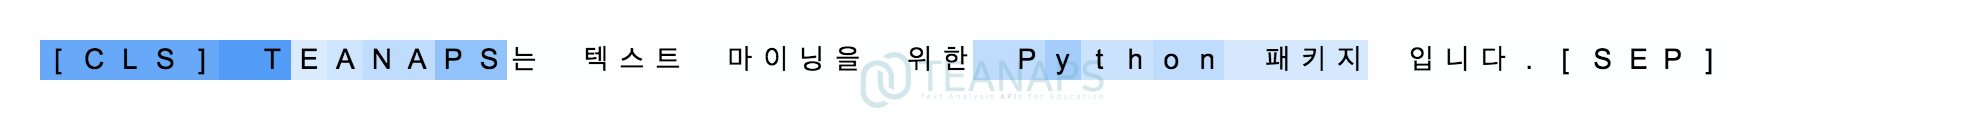
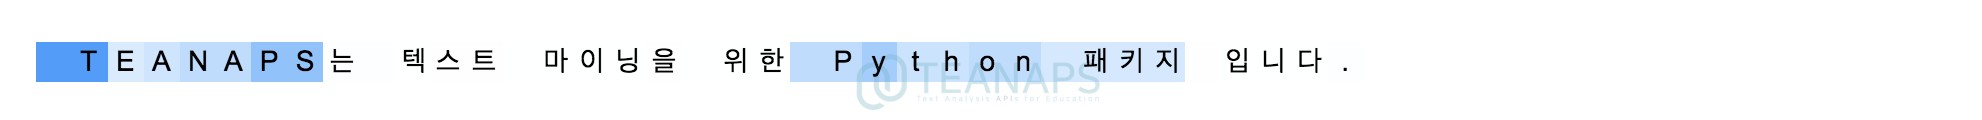
modified:   data/sample_image/sentence_weight.png 	modified:   data/sample_image/sentence_weight_histogram.png 	modified:   document/teanaps_user_guide-api_documentation-handler.md 	modified:   document/teanaps_user_guide-api_documentation-machine-learning.md 	modified:   document/teanaps_user_guide

Changed region(s): [[0.0, 0.325, 0.8618, 0.925]]

diff --git a/nlp/NamedEntityRecognizer.py b/nlp/NamedEntityRecognizer.py
@@ -57,7 +57,7 @@ class NamedEntityRecognizer():
         weight_list = []
         for token_index in range(len(token_list)):
             weight_list.append(attn_data["attn"][11][11][token_index][token_index])
-        return token_list, weight_list
+        return token_list[1:-1], weight_list[1:-1]
     
     def draw_sentence_weight(self, sentence):
         token_list, weight_list = self.get_weight(sentence)
@@ -65,14 +65,10 @@ class NamedEntityRecognizer():
         return tv.draw_sentence_attention(token_list, weight_list)
     
     def draw_weight(self, sentence):
-        attn_data = self.__get_attention(self.model, sentence)
         gv = GraphVisualizer()
-        x = attn_data["text"]
-        x_data = []
-        z_data = []
-        for x_index in range(len(x)):
-            x_data.append("(" + str(x_index) + ")" + x[x_index])
-            z_data.append(attn_data["attn"][11][11][x_index][x_index])
+        token_list, weight_list = self.get_weight(sentence)
+        x_data = ["(" + str(token_index) + ")" + token for token_index, token in enumerate(token_list)]
+        z_data = [weight for weight in weight_list]
         data_meta_list = []
         data_meta = {
             "graph_type": "histogram",

diff --git a/document/teanaps_user_guide-api_documentation-visualization.md b/document/teanaps_user_guide-api_documentation-visualization.md
@@ -7,7 +7,7 @@
   - [Handler](./teanaps_user_guide-api_documentation-handler.md#teanaps-user-guide)
   - [NLP](./teanaps_user_guide-api_documentation-nlp.md#teanaps-user-guide)
   - [Text Analysis](./teanaps_user_guide-api_documentation-text_analysis.md#teanaps-user-guide)
-  - [Visualization](./teanaps_user_guide-api_documentation-visualization.md#teanaps-user-guide)
+  - Visualization
   - [Machine Learning](./teanaps_user_guide-api_documentation-machine-learning.md#teanaps-user-guide)
 - [Tutorial](./teanaps_user_guide-tutorial.md#teanaps-user-guide)
 - [References](./teanaps_user_guide-references_journal_project.md#teanaps-user-guide)
@@ -75,7 +75,7 @@
 > gv = GraphVisualizer()
 > ```
 
-- `teanaps.visualization.GraphVisualizer.draw_histogram(self, data_meta_list, graph_meta)` [[Top]](#teanaps-architecture)
+- `teanaps.visualization.GraphVisualizer.draw_histogram(data_meta_list, graph_meta)` [[Top]](#teanaps-architecture)
   - 입력된 그래프 메타정보를 바탕으로 생성된 히스토그램 그래프를 출력합니다.
   - Parameters
     - *data_meta_list (list) : 그래프에 표현할 데이터 딕셔너리를 포함하는 리스트. Examples 참고.*
@@ -125,7 +125,7 @@
     > Output (in Jupyter Notebook) :
     > ![histogram](../data/sample_image/histogram.png)
 
-- `teanaps.visualization.GraphVisualizer.draw_line_graph(self, data_meta_list, graph_meta)` [[Top]](#teanaps-architecture)
+- `teanaps.visualization.GraphVisualizer.draw_line_graph(data_meta_list, graph_meta)` [[Top]](#teanaps-architecture)
   - 입력된 그래프 메타정보를 바탕으로 생성된 라인 그래프를 출력합니다.
   - Parameters
     - *data_meta_list (list) : 그래프에 표현할 데이터 딕셔너리를 포함하는 리스트. Examples 참고.*
@@ -175,7 +175,7 @@
     > Output (in Jupyter Notebook) :
     > ![line_graph](../data/sample_image/line_graph.png)
 
-- `teanaps.visualization.GraphVisualizer.draw_matrix(self, data_meta_list, graph_meta)` [[Top]](#teanaps-architecture)
+- `teanaps.visualization.GraphVisualizer.draw_matrix(data_meta_list, graph_meta)` [[Top]](#teanaps-architecture)
   - 입력된 그래프 메타정보를 바탕으로 생성된 매트릭스 그래프를 출력합니다.
   - Parameters
     - *data_meta (dict) : 그래프에 표현할 데이터 딕셔너리. Examples 참고.*
@@ -219,7 +219,7 @@
     > Output (in Jupyter Notebook) :
     > ![matrix](../data/sample_image/matrix.png)
 
-- `teanaps.visualization.GraphVisualizer.draw_scatter(self, data_meta_list, graph_meta)` [[Top]](#teanaps-architecture)
+- `teanaps.visualization.GraphVisualizer.draw_scatter(data_meta_list, graph_meta)` [[Top]](#teanaps-architecture)
   - 입력된 그래프 메타정보를 바탕으로 생성된 산점도 그래프를 출력합니다.
   - Parameters
     - *data_meta_list (list) : 그래프에 표현할 데이터 딕셔너리를 포함하는 리스트. Examples 참고.*

diff --git a/document/teanaps_user_guide-api_documentation-nlp.md b/document/teanaps_user_guide-api_documentation-nlp.md
@@ -5,7 +5,7 @@
 - [Install `TEANAPS`](./teanaps_user_guide-install_teanaps.md#teanaps-user-guide)
 - [API Documentation](./teanaps_user_guide-api_documentation-handler.md#teanaps-user-guide)
   - [Handler](./teanaps_user_guide-api_documentation-handler.md#teanaps-user-guide)
-  - [NLP](./teanaps_user_guide-api_documentation-nlp.md#teanaps-user-guide)
+  - NLP
   - [Text Analysis](./teanaps_user_guide-api_documentation-text_analysis.md#teanaps-user-guide)
   - [Visualization](./teanaps_user_guide-api_documentation-visualization.md#teanaps-user-guide)
   - [Machine Learning](./teanaps_user_guide-api_documentation-machine-learning.md#teanaps-user-guide)
@@ -210,7 +210,7 @@
     > Python Code (in Jupyter Notebook) :
     > ```python
     > sentence = "TEANAPS는 텍스트 마이닝을 위한 Python 패키지 입니다."
-    > result = ner.draw_weight(sentence)
+    > ner.draw_sentence_weight(sentence)
     > ```
     > Output (in Jupyter Notebook) :  
     > ![sentence_weight](../data/sample_image/sentence_weight.png)
@@ -226,7 +226,7 @@
     > Python Code (in Jupyter Notebook) :
     > ```python
     > sentence = "TEANAPS는 텍스트 마이닝을 위한 Python 패키지 입니다."
-    > result = ner.draw_weight(sentence)
+    > ner.draw_weight(sentence)
     > ```
     > Output (in Jupyter Notebook) :  
     > ![sentence_weight_histogram](../data/sample_image/sentence_weight_histogram.png)

diff --git a/document/teanaps_user_guide-api_documentation-text_analysis.md b/document/teanaps_user_guide-api_documentation-text_analysis.md
@@ -6,7 +6,7 @@
 - [API Documentation](./teanaps_user_guide-api_documentation-handler.md#teanaps-user-guide)
   - [Handler](./teanaps_user_guide-api_documentation-handler.md#teanaps-user-guide)
   - [NLP](./teanaps_user_guide-api_documentation-nlp.md#teanaps-user-guide)
-  - [Text Analysis](./teanaps_user_guide-api_documentation-text_analysis.md#teanaps-user-guide)
+  - Text Analysis
   - [Visualization](./teanaps_user_guide-api_documentation-visualization.md#teanaps-user-guide)
   - [Machine Learning](./teanaps_user_guide-api_documentation-machine-learning.md#teanaps-user-guide)
 - [Tutorial](./teanaps_user_guide-tutorial.md#teanaps-user-guide)
@@ -151,7 +151,6 @@
     > print(weight_list)
     > ```
     > Output (in Jupyter Notebook) :
-    > ```python
     > ```python
     > [' ', '과', '한', ' 욕심', '은', ' 주변', ' 사람들', '에게', ' 피해를', ' ', '줍', '니다', ' ', '.']
     > [0, 0.020344315, 0.024879746, 0.02612342, 0.03615231, 0.048542265, 0.06707654, 0.0936653, 0.07649707, 0, 0.08189902, 0.08962273, 0, 0.07841993]

diff --git a/document/teanaps_user_guide-api_documentation-machine-learning.md b/document/teanaps_user_guide-api_documentation-machine-learning.md
@@ -8,7 +8,7 @@
   - [NLP](./teanaps_user_guide-api_documentation-nlp.md#teanaps-user-guide)
   - [Text Analysis](./teanaps_user_guide-api_documentation-text_analysis.md#teanaps-user-guide)
   - [Visualization](./teanaps_user_guide-api_documentation-visualization.md#teanaps-user-guide)
-  - [Machine Learning](./teanaps_user_guide-api_documentation-machine-learning.md#teanaps-user-guide)
+  - Machine Learning
 - [Tutorial](./teanaps_user_guide-tutorial.md#teanaps-user-guide)
 - [References](./teanaps_user_guide-references_journal_project.md#teanaps-user-guide)
 - [Journal & Project](./teanaps_user_guide-references_journal_project.md#teanaps-user-guide)

diff --git a/document/teanaps_user_guide-tutorial.md b/document/teanaps_user_guide-tutorial.md
@@ -9,7 +9,7 @@
   - [Text Analysis](./teanaps_user_guide-api_documentation-text_analysis.md#teanaps-user-guide)
   - [Visualization](./teanaps_user_guide-api_documentation-visualization.md#teanaps-user-guide)
   - [Machine Learning](./teanaps_user_guide-api_documentation-machine-learning.md#teanaps-user-guide)
-- [Tutorial](./teanaps_user_guide-tutorial.md#teanaps-user-guide)
+- Tutorial
 - [References](./teanaps_user_guide-references_journal_project.md#teanaps-user-guide)
 - [Journal & Project](./teanaps_user_guide-references_journal_project.md#teanaps-user-guide)
 - [Appendix](./teanaps_user_guide-appendix.md#teanaps-user-guide)

diff --git a/document/teanaps_user_guide-api_documentation-handler.md b/document/teanaps_user_guide-api_documentation-handler.md
@@ -3,8 +3,8 @@
 ---
 ## Contents
 - [Install `TEANAPS`](./teanaps_user_guide-install_teanaps.md#teanaps-user-guide)
-- [API Documentation](./teanaps_user_guide-api_documentation-handler.md#teanaps-user-guide)
-  - [Handler](./teanaps_user_guide-api_documentation-handler.md#teanaps-user-guide)
+- API Documentation
+  - Handler
   - [NLP](./teanaps_user_guide-api_documentation-nlp.md#teanaps-user-guide)
   - [Text Analysis](./teanaps_user_guide-api_documentation-text_analysis.md#teanaps-user-guide)
   - [Visualization](./teanaps_user_guide-api_documentation-visualization.md#teanaps-user-guide)

diff --git a/document/teanaps_user_guide-references_journal_project.md b/document/teanaps_user_guide-references_journal_project.md
@@ -10,8 +10,8 @@
   - [Visualization](./teanaps_user_guide-api_documentation-visualization.md#teanaps-user-guide)
   - [Machine Learning](./teanaps_user_guide-api_documentation-machine-learning.md#teanaps-user-guide)
 - [Tutorial](./teanaps_user_guide-tutorial.md#teanaps-user-guide)
-- [References](./teanaps_user_guide-references_journal_project.md#teanaps-user-guide)
-- [Journal & Project](./teanaps_user_guide-references_journal_project.md#teanaps-user-guide)
+- References
+- Journal & Project
 - [Appendix](./teanaps_user_guide-appendix.md#teanaps-user-guide)
 
 ---

diff --git a/document/teanaps_user_guide-install_teanaps.md b/document/teanaps_user_guide-install_teanaps.md
@@ -2,7 +2,7 @@
 
 ---
 ## Contents
-- [Install `TEANAPS`](./teanaps_user_guide-install_teanaps.md#teanaps-user-guide)
+- Install `TEANAPS`
 - [API Documentation](./teanaps_user_guide-api_documentation-handler.md#teanaps-user-guide)
   - [Handler](./teanaps_user_guide-api_documentation-handler.md#teanaps-user-guide)
   - [NLP](./teanaps_user_guide-api_documentation-nlp.md#teanaps-user-guide)

diff --git a/document/teanaps_user_guide-appendix.md b/document/teanaps_user_guide-appendix.md
@@ -12,7 +12,7 @@
 - [Tutorial](./teanaps_user_guide-tutorial.md#teanaps-user-guide)
 - [References](./teanaps_user_guide-references_journal_project.md#teanaps-user-guide)
 - [Journal & Project](./teanaps_user_guide-references_journal_project.md#teanaps-user-guide)
-- [Appendix](./teanaps_user_guide-appendix.md#teanaps-user-guide)
+- Appendix
 
 ---
 ## Appendix
